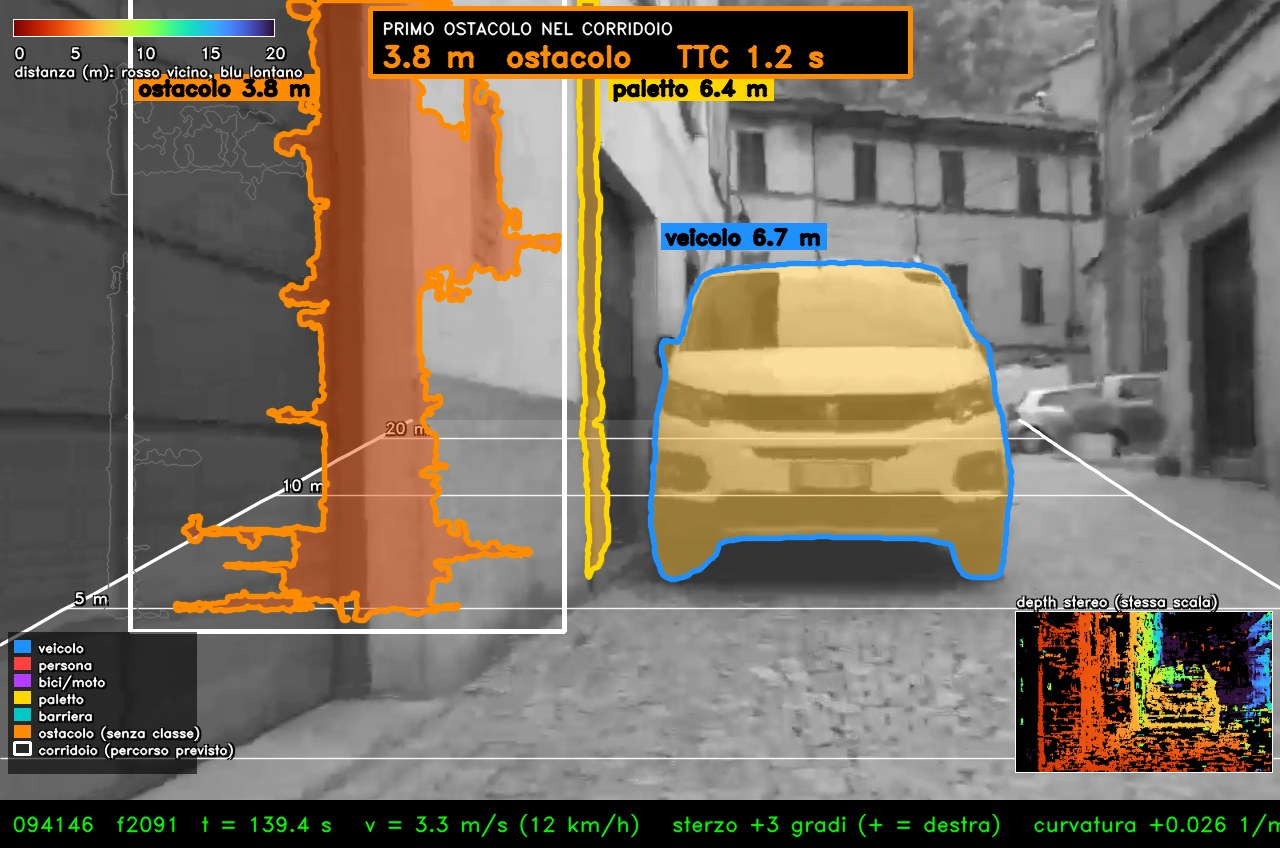
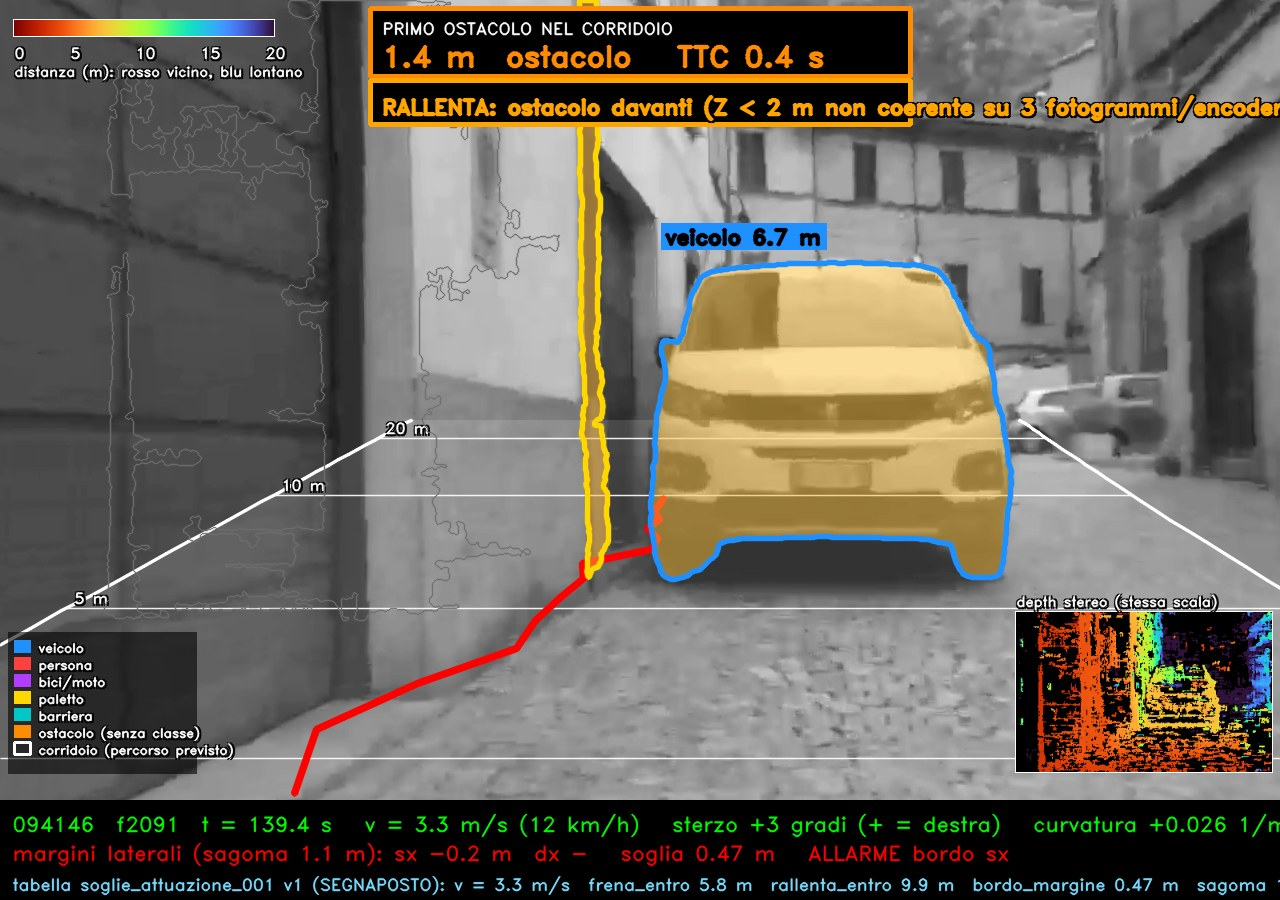
depth video #001 giro 11: muri laterali declassati a bordo (componente muro + impronta), STERZA con base misurata, gate FRENA/RALLENTA su sagoma, coerenza Z sotto 2 m, falsi campione 18->6, persi 7->47 (dichiarato)

diff --git a/projects/asmile/training/depth/video_fluido_001.py b/projects/asmile/training/depth/video_fluido_001.py
@@ -14,15 +14,16 @@ import bordi_001 as BD
 from ego_001 import Ego, x_path, path_xz, x_arc
 
 W, H, BAR = 1280, 800, 100
-MODE = os.environ.get("VFMODE", "v10")          # "v6"/"v7" = regole dei giri 6/7 (per il prima/dopo), "v8" = v7 + correzioni bug del giro 8
-V7 = MODE in ("v7", "v8", "v9", "v10")
-V8 = MODE in ("v8", "v9", "v10")
-V10 = MODE == "v10"     # giro 10: H_ALTO 2.0 m (Daniele: da terra a 2 m e' ostacolo anche sospeso) + BORDI (muri/cordoli/marciapiede paralleli: allarme di distanza laterale, non primo ostacolo)
-V9 = MODE in ("v9", "v10")       # giro 9: quota da terra misurata sui pixel bassi/alti della MASCHERA (zmap), non sul box; esclude solo cio' che sta tutto sopra H_ALTO o sotto il piano
+MODE = os.environ.get("VFMODE", "v11")          # "v6"/"v7" = regole dei giri 6/7 (per il prima/dopo), "v8" = v7 + correzioni bug del giro 8
+V7 = MODE in ("v7", "v8", "v9", "v10", "v11")
+V8 = MODE in ("v8", "v9", "v10", "v11")
+V10 = MODE in ("v10", "v11")     # giro 10: H_ALTO 2.0 m (Daniele: da terra a 2 m e' ostacolo anche sospeso) + BORDI (muri/cordoli/marciapiede paralleli: allarme di distanza laterale, non primo ostacolo)
+V9 = MODE in ("v9", "v10", "v11")       # giro 9: quota da terra misurata sui pixel bassi/alti della MASCHERA (zmap), non sul box; esclude solo cio' che sta tutto sopra H_ALTO o sotto il piano
+V11 = MODE == "v11"     # giro 11: blob/altro LATERALI o paralleli declassati a bordo prima del primo ostacolo; STERZA solo con bordo entro margine+rallenta_entro+base misurata; FRENA/RALLENTA solo se tocca terra nel corridoio o la sagoma 0-2 m interseca la bici; FRENA <2 m con Z coerente (encoder) salvo persone
 PURE = os.environ.get("VF_PURE", "1") == "1"      # v7: terza ipotesi = arco a curvatura costante (il percorso reale in curva stretta si avvolge piu' del previsto)
 EXTRA = float(os.environ.get("VF_EXTRA", "0.1"))   # allargamento aggiuntivo del corridoio per m di distanza (m/m), 0 = nessuno
 OUT_A = os.environ.get("VF_OUT_A", os.path.join(D.HERE, "out_20261112_v6"))  # stadio A (misure per fotogramma) INVARIATO: riletto da v6
-OUT = os.environ.get("VF_OUT", os.path.join(D.HERE, "out_20261112_v10" if V10 else "out_20261112_v9"))
+OUT = os.environ.get("VF_OUT", os.path.join(D.HERE, "out_20261112_v11" if V11 else ("out_20261112_v10" if V10 else "out_20261112_v9")))
 os.makedirs(OUT, exist_ok=True)
 Z_RAW_GAP, Z_RAW_MAXZ = 0.7, 8.0   # v7 punto 3: se Z_filtrata - Z_grezza > 0.7 m sotto 8 m si usa la grezza (vince la piu' vicina)
 HITS_BLOB_NEAR, ZNEAR_BLOB = 3, 5.0  # v7 punto 1: sotto 5 m un blob senza classe conferma a 3 fotogrammi come gli altri
@@ -135,7 +136,7 @@ class Track:
         sa = 0.3 if s.stat else 1.0
         s.sa = sa; s.x = np.array([Z, 0.0]); sg = s.sig(Z); s.P = np.diag([sg ** 2, (0.3 if s.stat else 1.0) ** 2])
         s.out = 0; s.tan = o["X"] / max(o["Z_picco"], 0.1); s.decl = [bool(o["declassato"])]; s.sosp = [bool(o["sospetto"])]
-        s.in_arc = False; s.in_str = False; s.lastfirst = False; s.lab_xy = None; s.o = o; s.Zraw = [o["Z_picco"]]; s.t_obs = [t]; s.Zf = [Z]; s.s_obs = []; s.hb = []; s.ht = []; s.bd = []
+        s.in_arc = False; s.in_str = False; s.lastfirst = False; s.lab_xy = None; s.o = o; s.Zraw = [o["Z_picco"]]; s.t_obs = [t]; s.Zf = [Z]; s.s_obs = []; s.hb = []; s.ht = []; s.bd = []; s.fp = []; s.bpar = []
 
     @staticmethod
     def sig(Z): return float(np.hypot(0.03 * Z, Z * Z * 0.4 / (F_PX * B_M)))
@@ -222,6 +223,31 @@ def run_tracking(frames, ego, famv2):
     return per
 
 
+Z_COERENZA = 2.0     # v11: sotto 2 m FRENA richiede Z coerente (salvo persone)
+
+
+def z_coerente(tr, tol=0.35):
+    """v11: gli ultimi 3 fotogrammi MISURATI (non predetti) dell'oggetto, riportati a oggi con lo spostamento encoder (Zraw_i - (s_ora - s_i)), devono stare entro 0.35 m (errore stereo a 1-2 m ~ 0.05 m + encoder):
+    un oggetto fermo che si avvicina con la velocita' della bici e' coerente; un salto di Z (facciata lontana con profondita' sbagliata) no. Meno di 3 misure = non coerente."""
+    n = min(len(tr.Zraw), len(tr.s_obs))
+    if n < 3: return False
+    Z3 = tr.Zraw[-3:]; s3 = tr.s_obs[-3:]; adj = [z - (s3[-1] - si) for z, si in zip(Z3, s3)]
+    return bool(max(adj) - min(adj) <= tol)
+
+
+def lat_gaps(r, pz, px, use_fp=True):
+    """v11: spazio libero laterale (m, <0 = interseca) fra l'oggetto e la sagoma della bici, per l'arco e per il percorso dritto. Impronta dei punti se c'e', altrimenti estremi laterali di maschera/box alla Z misurata."""
+    fp = None
+    tr = r.get("track")
+    if tr is not None and use_fp and not r.get("coast"): fp = next((x for x in reversed(tr.fp[-3:]) if x is not None), None)
+    if fp is not None: return fp["gap"], fp["gap_s"]
+    if r.get("poly") is not None and len(r["poly"]) >= 3: xs = np.asarray(r["poly"], np.float32)[:, 0]; x0, x1 = float(xs.min()), float(xs.max())
+    else: x0, x1 = float(r["box"][0]), float(r["box"][2])
+    x0, x1 = max(x0, 0.0), min(x1, float(W)); Z = r["Z"]
+    Xl, Xr = (x0 - BD.CX) * Z / F_PX, (x1 - BD.CX) * Z / F_PX; xa = float(np.interp(Z, pz, px))
+    return max(Xl - xa - BD.HW, xa - Xr - BD.HW), max(Xl - BD.HW, -BD.HW - Xr)
+
+
 def corridor_logic(per, frames, ego, zm=None, stuff=None):
     """per ogni fotogramma: arco (k), appartenenza arco/dritta con isteresi, primo ostacolo (isteresi 0.5 m)"""
     res = []; prev_first = {"arc": None, "str": None}; bhist = {"L": [], "R": []}; bclr = {"L": [], "R": []}
@@ -229,6 +255,10 @@ def corridor_logic(per, frames, ego, zm=None, stuff=None):
     for fi, (fr, rows) in enumerate(zip(frames, per)):
         k = float(ego.at(fr["t_ms"], "k")); pz, px = path_xz(k); gpf = smooth_gp(frames, fi) if V8 else None
         zf_ = zm[f"f{fr['frame']}"] if (zm is not None and f"f{fr['frame']}" in zm.files) else None
+        wcl, wpar = None, {}
+        if V11 and skeys is not None and zf_ is not None and gpf is not None:      # v11: componenti muro (stuff) con PCA, per i blob-fette di muro
+            nk0 = int(skeys[np.argmin(np.abs(skeys - fr["frame"]))])
+            if abs(nk0 - fr["frame"]) <= 2: wcl, wpar = BD.wall_components(zf_, gpf, stuff[f"f{nk0}"], [q["poly"] for q in rows if q["src"] != "blob" and not q["coast"]], k, HP)
         for r in rows:
             Z = r["Z"]; X = r["tan"] * Z; r["X"] = X
             dx_arc = X - float(np.interp(Z, pz, px)); tr = r["track"]
@@ -259,7 +289,25 @@ def corridor_logic(per, frames, ego, zm=None, stuff=None):
                 r["h_base"] = hb; r["senza_base"] = bool(hb is not None and hb >= H_BASE_MIN)
             if V10:
                 tr = r["track"]; r["bordo"] = False
-                if r["src"] == "blob":
+                if V11 and r["src"] == "blob":
+                    # v11: il blob (o 'altro') e' un BORDO se parallelo al percorso (PCA come i bordi) OPPURE interamente laterale (fuori sagoma + margine: non puo' urtare; se la sua impronta torna a intersecare la sagoma ridiventa ostacolo): voto 3 su 5
+                    if not r["coast"]:
+                        fp = BD.blob_footprint(r["poly"], zf_, gpf, HP, k); r["fp"] = fp
+                        if fp is None: tr.bd.append(None)
+                        else:
+                            par = fp["ext"] >= BD.EXT_MIN and fp["el"] >= BD.ELONG_MIN and fp["ang"] <= BD.ANG_MAX
+                            lat = min(fp["gap"], fp["gap_s"]) >= BD.margin(max(0.0, float(ego.at(fr["t_ms"], "v_s"))))
+                            wp = False
+                            if wcl is not None:   # blob-fetta di muro: >= 50% dei suoi pixel (con Z valida) cadono in componenti muro PARALLELE al percorso
+                                mm = BD._fill([r["poly"]]) & (zf_ != 255) & (zf_ < 250) & (zf_ >= 3); ids = wcl[mm]
+                                if len(ids) >= 12: wp = bool(np.mean([wpar.get(int(i), {}).get("par", False) for i in ids]) >= 0.5)
+                            r["wpar"] = wp; par = par or wp
+                            tr.bd.append(bool(par or lat)); tr.bpar.append(bool(par)); r["bgeo"] = [bool(par), bool(lat)] + [round(float(fp[x]), 2) for x in ("gap", "zspan", "ext", "el", "ang")]
+                        tr.fp.append(fp)
+                    hist = [x for x in tr.bd[-5:] if x is not None]; lastfp = next((x for x in reversed(tr.fp) if x is not None), None)
+                    if r["coast"] and lastfp is not None: gA_, gS_ = lat_gaps(r, pz, px, use_fp=False); lastfp = dict(gap=gA_, gap_s=gS_)      # traccia non vista: la posizione ATTUALE (box predetto, Z predetta), non l'impronta vecchia   # v11: bordo se >= 2 voti su 5 (1 solo se e' l'unico campione) E l'ultima impronta non interseca la sagoma (gap >= 0 sia sull'arco sia sul dritto; PROVATA l'esenzione per i muri paralleli che intersecano: perdeva pilastri a 0.4 m dalla traiettoria senza allarme, RIFIUTATA: sicurezza prima): il flicker dell'allungamento non riporta un muro a ostacolo
+                    r["bordo"] = bool(hist and (sum(hist) >= (2 if len(hist) >= 2 else 1)) and (lastfp is None or max(lastfp["gap"], lastfp["gap_s"]) >= 0.0))
+                elif r["src"] == "blob" and not V11:
                     if not r["coast"]:
                         g = BD.blob_geometry(r["poly"], zf_, gpf, HP, k); tr.bd.append(None if g is None else bool(g[0])); r["bgeo"] = None if g is None else [bool(g[0])] + [round(float(x), 2) for x in g[1:]]
                     hist = [x for x in tr.bd[-5:] if x is not None]; r["bordo"] = bool(hist and np.mean(hist) > 0.5)
@@ -274,7 +322,11 @@ def corridor_logic(per, frames, ego, zm=None, stuff=None):
             bsum = dict(bf=bf, alarm=None, lab=lab is not None)
             for si, side in enumerate(("L", "R")):
                 vi = None if bf is None else bf[side]["viol"]; bhist[side].append(bool(vi is not None and v_ >= BD.V_MIN_ALLARME)); bclr[side].append(None if bf is None else bf[side]["clear"])
-                if len(bhist[side]) >= 3 and all(bhist[side][-3:]):
+                cl_ok = [x for x in bclr[side][-5:] if x is not None]
+                # v11 punto 4 (2973): provata la mediana degli ultimi 5 fotogrammi (BD_MED=1): allarmi 69->122 fotogrammi, molti episodi da 1 fotogramma = piu' falsi; RIFIUTATA, resta 3 consecutivi (causa: la misura laterale salta fra fotogrammi, vedi rapporto)
+                if os.environ.get('BD_MED') == '1' and V11: trig = bool(bhist[side][-1] and len(cl_ok) >= 3 and float(np.median(cl_ok)) < bf['margin'])
+                else: trig = len(bhist[side]) >= 3 and all(bhist[side][-3:])
+                if trig:
                     Zv, cv_, kd = vi; nm = "sx" if side == "L" else "dx"
                     rows.append(dict(inside=1.0, id=-1 - si, fam="bordo", src="bordo", classe=kd, Z=Zv, Zf=Zv, rawfix=False, w=0.0, Zraw=Zv, tan=0.0, box=[0, 0, 0, 0], poly=None, decl=False, sosp=False, ext=False, hits=99, coast=False, track=None,
                                      X=0.0, in_arc=True, in_str=True, in_arc_pure=True, cand=True, fuori_img=False, h_base=0.0, h_top=0.0, escl="", senza_base=False, bordo=False, side=nm, clear=float(cv_), kind=kd))
@@ -297,9 +349,21 @@ def corridor_logic(per, frames, ego, zm=None, stuff=None):
                 if f_["fam"] == "bordo" and f_["kind"] == "bordo":
                     oth = None if bsum["bf"] is None else bsum["bf"]["R" if f_["side"] == "sx" else "L"]["clear"]
                     libero = oth is None or oth >= sg["bordo_margine_m"]
-                    if (f_["clear"] < 0 or not libero) and Zf_ <= sg["frena_entro_m"]: act = ("FRENA", f"bordo {f_['side']}, " + ("nel percorso" if f_["clear"] < 0 else "nessuno spazio dall'altro lato"))
+                    if V11 and Zf_ > sg["rallenta_entro_m"]: act = None      # v11: nessuna azione se il bordo e' oltre rallenta_entro lungo il percorso
+                    elif (f_["clear"] < 0 or not libero) and Zf_ <= sg["frena_entro_m"]: act = ("FRENA", f"bordo {f_['side']}, " + ("nel percorso" if f_["clear"] < 0 else "nessuno spazio dall'altro lato"))
                     elif libero: act = ("STERZA", f"via dal bordo {f_['side']} {max(0, f_['clear']):.1f} m")
                     else: act = ("RALLENTA", f"bordo {f_['side']}, nessuno spazio dall'altro lato")
+                elif V11:
+                    gA, gS = lat_gaps(f_, pz, px)
+                    ground = f_["fam"] in BASE_EXEMPT or (f_["h_base"] is not None and f_["h_base"] <= H_BASE_MIN)
+                    sagoma_int = min(gA, gS) <= BD.LAT_GAP_TOL                      # la sagoma 0-2 m dell'oggetto interseca la sagoma della bici (arco O dritto)
+                    corr_ground = ground and min(gA, gS) <= sg["bordo_margine_m"]      # tocca terra dentro il corridoio (sagoma + margine)
+                    f_["gap"] = (round(gA, 2), round(gS, 2), bool(ground))
+                    if not (sagoma_int or corr_ground): act = None
+                    elif Zf_ <= sg["frena_entro_m"]:
+                        if Zf_ < Z_COERENZA and f_["fam"] != "persona" and not z_coerente(f_["track"]): act = ("RALLENTA", "ostacolo davanti (Z < 2 m non coerente su 3 fotogrammi/encoder: no FRENA)")
+                        else: act = ("FRENA", "ostacolo davanti")
+                    elif Zf_ <= sg["rallenta_entro_m"]: act = ("RALLENTA", "ostacolo davanti")
                 elif abs(f_["X"] - float(np.interp(Zf_, pz, px))) > BD.HW + sg["bordo_margine_m"]: act = None    # fuori dalla sagoma + margine: non e' sul percorso (corridoio largo del tracking), nessuna azione
                 elif Zf_ <= sg["frena_entro_m"]: act = ("FRENA", "ostacolo davanti")
                 elif Zf_ <= sg["rallenta_entro_m"]: act = ("RALLENTA", "ostacolo davanti")
@@ -357,7 +421,7 @@ def draw(img, fr, rows, cs, gp, zthumb, ego, sess, t0, i):
         ga, gvh, gb = gp; mg = bf["margin"]
         for side in ("L", "R"):
             byz = {}
-            for z, xb, c, par, _h in bf[side]["bins"]:
+            for z, xb, c, par, _h, *_r in bf[side]["bins"]:
                 if par and (z not in byz or c < byz[z][1]): byz[z] = (xb, c)
             pts = []
             for z in sorted(byz):

diff --git a/projects/asmile/training/depth/bordi_001.py b/projects/asmile/training/depth/bordi_001.py
@@ -32,7 +32,7 @@ def _fill(polys, shape=(200, 320)):
     return m > 0
 
 
-def pca_dir(P, k, pz=None, px=None):
+def pca_dir(P, k, pz=None, px=None, either=False):
     """P (n,2) = (Z,X). ritorna (ext, elong, ang, parallela)"""
     if len(P) < N_MIN: return 0.0, 0.0, 90.0, False
     c = P.mean(0); C = np.cov((P - c).T); w, V = np.linalg.eigh(C); v1 = V[:, 1]; l1, l2 = max(w[1], 1e-9), max(w[0], 1e-9)
@@ -40,6 +40,7 @@ def pca_dir(P, k, pz=None, px=None):
     if pz is None: pz, px = path_xz(k)
     sp = float(np.interp(c[0], pz[:-1], np.diff(px) / np.maximum(np.diff(pz), 1e-6))); dr = np.array([1.0, sp]); dr /= np.linalg.norm(dr)
     ang = float(np.degrees(np.arccos(min(1.0, abs(float(v1 @ dr))))))
+    if either: ang = min(ang, float(np.degrees(np.arccos(min(1.0, abs(float(v1[0])))))))      # v11: parallelo se lo e' all'arco O al percorso dritto (le due ipotesi del corridoio)
     return ext, el, ang, bool(ext >= EXT_MIN and el >= ELONG_MIN and ang <= ANG_MAX)
 
 
@@ -68,6 +69,7 @@ def consistent(zf, tol=0.12, nmin=8):
     return ok & (cnt >= nmin)
 
 
+BASE_MAX_M = 0.5      # v11: base a terra misurata = punti della fascia a quota <= 0.5 m dal piano strada (errore piano 0.1-0.2 m): dichiarato, non tarato sui fotogrammi
 H_MURO = 1.0          # un muro e' ALTO: la mediana del 90 percentile di quota delle fasce della catena >= 1.0 m (toglie linee a terra mal etichettate)
 CH_DZ, CH_DX, CH_LEN = 0.8, 0.35, 2.0      # catena di fasce Z: passo <= 0.8 m, salto laterale <= 0.35 m per fascia, lunghezza >= 2.0 m (un bordo vero e' una LINEA lungo il percorso)
 
@@ -110,7 +112,8 @@ def border_frame(zf, gp, k, v, lab, cls_polys, bord_polys, hp):
     mo = ((wall & ~clsm) | bm) & valid & (h >= 0.2) & (h <= 2.0)
     Zl = np.where(valid & (np.abs(Z - Zg) < 0.3 * Zg), Z, Zg); Xl = (uu - CX) * Zl / F_PX
     ml = lowe & np.isfinite(Zl) & ~clsm & LOW_ON
-    pz, px = path_xz(k); out = dict(L=dict(bins=[], clear=None, viol=None), R=dict(bins=[], clear=None, viol=None), zl=zl, margin=mg, ncomp=0, par=0, front=0, npts=int(mo.sum() + ml.sum()))
+    pz, px = path_xz(k); hyps = [(pz, px)] + ([(pz, np.zeros_like(px))] if os.environ.get('BD_HYP2') == '1' else [])      # v11: PROVATE le due ipotesi (arco e dritto) per l'allarme (BD_HYP2=1): allarmi 69->94 fotogrammi e nuovi FRENA in curva (2751-2758) = piu' falsi; RIFIUTATO: l'allarme resta sull'arco come v10 (le due ipotesi servono solo per dire che un muro e' parallelo)
+    out = dict(L=dict(bins=[], bh=[[], []], clear=None, viol=None), R=dict(bins=[], bh=[[], []], clear=None, viol=None), zl=zl, margin=mg, ncomp=0, par=0, front=0, npts=int(mo.sum() + ml.sum()))
     for kind, mk, XX, ZZ, HH in (("obj", mo, X, Z, h), ("low", ml, Xl, Zl, np.zeros_like(h))):
         Xp = XX[mk].astype(np.float64); Zp = ZZ[mk].astype(np.float64); Hp = HH[mk].astype(np.float64); s = (Zp >= ZMIN_B) & (Zp <= Zc) & (np.abs(Xp) < 8)
         Xp, Zp, Hp = Xp[s], Zp[s], Hp[s]
@@ -123,26 +126,68 @@ def border_frame(zf, gp, k, v, lab, cls_polys, bord_polys, hp):
         czz = bx(g * zc_ ** 2) / np.maximum(S, 1) - mz ** 2; cxx = bx(g * xc_ ** 2) / np.maximum(S, 1) - mx ** 2; czx = bx(g * zc_ * xc_) / np.maximum(S, 1) - mz * mx
         tr_ = czz + cxx; det_ = np.sqrt(np.maximum(((czz - cxx) / 2) ** 2 + czx ** 2, 0)); l1 = tr_ / 2 + det_; l2 = np.maximum(tr_ / 2 - det_, 1e-6)
         th = 0.5 * np.arctan2(2 * czx, czz - cxx)            # angolo dell'asse maggiore rispetto a Z (in (Z,X))
-        slope = np.interp(zc_, pz[:-1], np.diff(px) / np.maximum(np.diff(pz), 1e-6)); pa = np.arctan(slope)
-        da = np.degrees(np.abs(((th - pa + np.pi / 2) % np.pi) - np.pi / 2))
-        el = np.sqrt(l1 / l2); cellpar = (S >= 12) & (el >= ELONG_MIN) & (da <= ANG_MAX) & (np.sqrt(l1) * 3.5 >= EXT_MIN / 2)
-        cellfr = (S >= 12) & ~cellpar
-        ppar = cellpar[iz, ix]; pfr = cellfr[iz, ix]; out["par"] += int(ppar.sum()); out["front"] += int(pfr.sum()); out["ncomp"] += 1
-        for isp, sel in ((True, ppar), (False, pfr)):
-            if not isp: continue      # i muri FRONTALI restano ostacoli normali del tracking/blob (Daniele: opzione A): qui solo i bordi paralleli (il frontale da stereo grezza dava falsi dal rumore in alto/centro)
-            q = sel & (Zp <= zl)
-            if q.sum() < 5: continue
-            P = np.stack([Zp[q], Xp[q]], 1); Hq = Hp[q]; rel = P[:, 1] - np.interp(P[:, 0], pz, px); bz = (P[:, 0] / 0.5).astype(int)
-            for side, sm in (("L", rel < 0), ("R", rel >= 0)):
-                for b_ in np.unique(bz[sm]):
-                    mb = sm & (bz == b_)
-                    if mb.sum() < 5: continue
-                    sep = float(np.percentile(np.abs(rel[mb]), 10)); xb = float(np.interp((b_ + .5) * .5, pz, px) + (-sep if side == "L" else sep))
-                    out[side]["bins"].append(((b_ + 0.5) * 0.5, xb, sep - HW, isp, float(np.percentile(Hq[mb], 90))))
+        for hyp, (pzh, pxh) in enumerate(hyps):
+            slope = np.interp(zc_, pzh[:-1], np.diff(pxh) / np.maximum(np.diff(pzh), 1e-6)); pa = np.arctan(slope)
+            da = np.degrees(np.abs(((th - pa + np.pi / 2) % np.pi) - np.pi / 2))
+            el = np.sqrt(l1 / l2); cellpar = (S >= 12) & (el >= ELONG_MIN) & (da <= ANG_MAX) & (np.sqrt(l1) * 3.5 >= EXT_MIN / 2)
+            cellfr = (S >= 12) & ~cellpar
+            ppar = cellpar[iz, ix]; pfr = cellfr[iz, ix]; out["par"] += int(ppar.sum()); out["front"] += int(pfr.sum()); out["ncomp"] += 1
+            for isp, sel in ((True, ppar), (False, pfr)):
+                if not isp: continue      # i muri FRONTALI restano ostacoli normali del tracking/blob (Daniele: opzione A): qui solo i bordi paralleli (il frontale da stereo grezza dava falsi dal rumore in alto/centro)
+                q = sel & (Zp <= zl)
+                if q.sum() < 5: continue
+                P = np.stack([Zp[q], Xp[q]], 1); Hq = Hp[q]; rel = P[:, 1] - np.interp(P[:, 0], pzh, pxh); bz = (P[:, 0] / 0.5).astype(int)
+                for side, sm in (("L", rel < 0), ("R", rel >= 0)):
+                    for b_ in np.unique(bz[sm]):
+                        mb = sm & (bz == b_)
+                        if mb.sum() < 5: continue
+                        sep = float(np.percentile(np.abs(rel[mb]), 10)); xb = float(np.interp((b_ + .5) * .5, pzh, pxh) + (-sep if side == "L" else sep))
+                        out[side]["bh"][hyp].append(((b_ + 0.5) * 0.5, xb, sep - HW, isp, float(np.percentile(Hq[mb], 90)), float(np.percentile(Hq[mb], 5))))
     for side in ("L", "R"):
-        out[side]["bins"] = chain_filter(out[side]["bins"])
+        out[side]["bins"] = sum((chain_filter(b) for b in out[side]["bh"][:len(hyps)]), [])
         bs = out[side]["bins"]; pb = [b for b in bs if b[3]]
         if pb: out[side]["clear"] = min(b[2] for b in pb)
-        vi = [b for b in bs if (b[2] < mg if b[3] else b[2] < 0.0)]      # frontale: ostacolo se entra nella sagoma
+        vi = [b for b in bs if (b[2] < mg if b[3] else b[2] < 0.0) and b[0] <= SOG.a(v)["rallenta_entro_m"] and b[5] <= BASE_MAX_M]      # v11: allarme solo entro rallenta_entro lungo il percorso E con base a terra MISURATA (quota del 5 percentile della fascia <= 0.5 m: un muro tocca terra; striscia piatta/muro senza punti bassi no)
         if vi: bz_ = min(vi, key=lambda b: b[0]); out[side]["viol"] = (bz_[0], bz_[2], "bordo" if bz_[3] else "muro davanti")
     return out
+
+
+LAT_GAP_TOL = 0.10     # v11: tolleranza (errore laterale stereo a 2-4 m ~0.1 m) per dire che un oggetto interseca la sagoma
+
+
+def blob_footprint(poly, zf, gp, hp, k):
+    """v11: impronta dei punti di una maschera sul percorso (Z,X, quota da piano strada, 0.15<=h<=2.0): ext/elong/angolo (PCA, come i bordi), estensione lungo Z (5-95 percentile),
+    intervallo laterale (5-95 percentile) rispetto al centro del percorso e spazio libero dalla sagoma gap = max(lo - HW, -HW - hi) (<0 = interseca), quota minima (5 percentile).
+    None se meno di 12 punti validi."""
+    if zf is None or gp is None or poly is None or len(poly) < 3: return None
+    ga, gvh, gb = gp; m = _fill([poly]); vs, us = np.nonzero(m & (zf != 255) & (zf < 250) & (zf >= 3))
+    if len(vs) < 12: return None
+    Z = zf[vs, us].astype(np.float32) / 10.0; X = ((us * 4 + 2.0) - CX) * Z / F_PX
+    d = F_PX * B_M / Z; h = hp * (1 - ga * ((vs * 4 + 2.0) - gvh) / d); s = (h >= 0.15) & (h <= 2.0)
+    if s.sum() < 12: return None
+    Z, X, h = Z[s].astype(np.float64), X[s].astype(np.float64), h[s]
+    lo, hi = np.percentile(Z, (10, 90)); q = (Z >= lo) & (Z <= hi)
+    ext, el, ang, _ = pca_dir(np.stack([Z[q], X[q]], 1), k, either=True) if q.sum() >= N_MIN else (0.0, 0.0, 90.0, False)
+    pz, px = path_xz(k); rel = X - np.interp(Z, pz, px); rlo, rhi = np.percentile(rel, (5, 95))
+    return dict(n=int(s.sum()), ext=float(ext), el=float(el), ang=float(ang), zspan=float(np.percentile(Z, 95) - np.percentile(Z, 5)), rlo=float(rlo), rhi=float(rhi),
+                gap=float(max(rlo - HW, -HW - rhi)), gap_s=float(max(np.percentile(X, 5) - HW, -HW - np.percentile(X, 95))), h5=float(np.percentile(h, 5)), zmed=float(np.median(Z)))
+
+
+def wall_components(zf, gp, lab, cls_polys, k, hp):
+    """v11: un blob e' una FETTA a profondita' costante di un muro (la sua impronta non e' allungata): per sapere se e' un muro parallelo si guarda l'INTERA componente connessa di pixel
+    'edificio/muro' (stuff Mapillary) con Z valida e quota 0.2-2.0 m, esclusi persone/veicoli/paletti. PCA della componente (Z,X) con lo stesso criterio dei bordi (estensione >= 1.5 m,
+    allungamento >= 2, angolo col percorso <= 35 gradi). Ritorna (mappa componenti 200x320 int32, {id: dict(par, ext, el, ang, n)}) oppure (None, {})."""
+    if zf is None or gp is None or lab is None: return None, {}
+    ga, gvh, gb = gp; valid = consistent(zf); Z = zf.astype(np.float32) / 10.0
+    uu = (np.arange(320) * 4 + 2.0)[None, :]; vv = (np.arange(200) * 4 + 2.0)[:, None]
+    with np.errstate(all="ignore"):
+        d = F_PX * B_M / np.where(valid, Z, 1.0); h = hp * (1 - ga * (vv - gvh) / d)
+    wall = np.isin(lab, CL_WALL) & ~_fill(cls_polys)
+    cn, cl = cv2.connectedComponents(wall.astype(np.uint8), connectivity=8)
+    X = (uu - CX) * Z / F_PX; out = {}
+    for i in range(1, cn):
+        m = (cl == i) & valid & (h >= 0.2) & (h <= 2.0) & (Z >= ZMIN_B) & (Z <= 15.0)
+        if m.sum() < 60: continue
+        P = np.stack([Z[m], X[m]], 1).astype(np.float64); lo, hi = np.percentile(P[:, 0], (5, 95)); P = P[(P[:, 0] >= lo) & (P[:, 0] <= hi)]
+        ext, el, ang, par = pca_dir(P, k, either=True); out[i] = dict(par=bool(par), ext=float(ext), el=float(el), ang=float(ang), n=int(m.sum()))
+    return cl, out

diff --git a/projects/asmile/training/depth/regress_v11_casi.py b/projects/asmile/training/depth/regress_v11_casi.py
@@ -1,0 +1,35 @@
+#!/usr/bin/env python3
+"""regress_v11_casi.py — regressione (sola lettura) sui casi fissi del critico: v7/v8/v9/v10/v11. 'bordo' = primo ostacolo sintetico dell'allarme bordo (id<0), contato a parte.
+Uso: regress_v10_casi.py CASI_V7.json CASI_V8.json DIR_V7 DIR_V8 DIR_V9 DIR_V10 DIR_V11"""
+import sys, json, pickle, os
+c7 = json.load(open(sys.argv[1]))["casi"]; c8 = json.load(open(sys.argv[2]))["casi"]
+T = {nm: pickle.load(open(os.path.join(d, "tracks_20261109_094146.pkl"), "rb")) for nm, d in (("v7", sys.argv[3]), ("v8", sys.argv[4]), ("v9", sys.argv[5]), ("v10", sys.argv[6]), ("v11", sys.argv[7]))}
+def first(t, f):
+    i = t["frames"].index(f); fid = t["cs"][i]["first"]["arc"]
+    return None if fid is None else next(q for q in t["per"][i] if q["id"] == fid)
+def brief(r): return None if r is None else (r["fam"], round(float(r["Z"]), 2), r["coast"], round(r["inside"], 2))
+falsi = [c["frame"] for c in c7 if "vero" not in (c.get("atteso") or "") and isinstance(c["frame"], int) and c["frame"] in T["v11"]["frames"]]
+veri = [c["frame"] for c in c7 if "vero" in (c.get("atteso") or "") and isinstance(c["frame"], int)]
+print("campione v7 critico: falsi", len(falsi), "veri", len(veri)); out = {}
+for nm, t in T.items():
+    ff5 = [f for f in falsi if (first(t, f) is not None and first(t, f)["Z"] < 5 and first(t, f)["fam"] != "bordo")]
+    fb = [f for f in falsi if (first(t, f) is not None and first(t, f)["fam"] == "bordo")]
+    vv = [f for f in veri if first(t, f) is not None]
+    print(nm, "falsi con primo ostacolo <5 m (esclusi bordo):", len(ff5), ff5, "| falsi col primo = ALLARME BORDO:", len(fb), fb, "| veri con primo", len(vv), "/", len(veri))
+    out[nm] = dict(falsi_sotto5=len(ff5), lista=ff5, falsi_bordo=len(fb), lista_bordo=fb, veri=len(vv), veri_tot=len(veri))
+print("--- casi v8 critico")
+def rng(f): return range(f[0], f[1] + 1) if isinstance(f, list) and len(f) == 2 and 1 < f[1] - f[0] < 40 else (f if isinstance(f, list) else [f])
+for c in c8:
+    if "frame" not in c: continue
+    fs = [x for x in rng(c["frame"]) if x in T["v11"]["frames"]]; print(c["frame"], "|", (c.get("atteso") or "")[:70])
+    for nm in ("v10", "v11"): print("   ", nm, [(f, brief(first(T[nm], f))) for f in fs][:14])
+for nm in ("v10", "v11"):
+    n = 0
+    for i, c in enumerate(T[nm]["cs"]):
+        fid = c["first"]["arc"]
+        if fid is not None and next(q for q in T[nm]["per"][i] if q["id"] == fid)["inside"] < 0.5: n += 1
+    print(nm, "primo ostacolo con box <50% dentro:", n)
+for tid in (854, 1384, 1427):
+    rows = [(i, r) for i, rr in enumerate(T["v11"]["per"]) for r in rr if r["id"] == tid]
+    print("paletto", tid, "righe", len(rows), "escl", sum(1 for _, r in rows if r.get("escl")), "bordo", sum(1 for _, r in rows if r.get("bordo")), "cand", sum(1 for _, r in rows if r["cand"]), "primo", sum(1 for i, r in rows if T["v11"]["cs"][i]["first"]["arc"] == tid))
+json.dump(out, open(os.path.join(sys.argv[7], "regress_v11.json"), "w"), indent=1)

diff --git a/projects/asmile/agents/rapporti/depth_video_001_20261112_v11.md b/projects/asmile/agents/rapporti/depth_video_001_20261112_v11.md
@@ -1,0 +1,52 @@
+# Depth video #001, giro 11: muri laterali, STERZA, gate FRENA/RALLENTA (12/11/2026)
+
+Verticale percezione, `asmile-depth`, gate `L1.depth_video`, solo #001 (calib provvisoria B30). Partenza v10 (ce92cb53), PASSA parziale di asmile-occhio. Codice: `training/depth/video_fluido_001.py` (default `VFMODE=v11`), `bordi_001.py` (`blob_footprint`, `wall_components`, `LAT_GAP_TOL`, `BASE_MAX_M`), `regress_v11_casi.py`, `test_sintetico_v11.sh`. Soglie sempre e solo da `config/soglie_attuazione_001.json` (PROPOSTA v1) via `pi/autonomous/soglie.py`.
+Video (locali, mai su git): `training/depth/out_20261112_v11/video_fluido_094146_125-215.mp4` (90 s), `video_fluido_093909.mp4` (27 s). Fotogrammi in `agents/rapporti/img/video_fluido_094146_f{1929,2091,2187,2748,2760,2778,2783,2973,3021,2094,2175,2258,3158,2460}.jpg`.
+
+## 1. Muri laterali scritti "primo ostacolo"
+Causa trovata: i blob sono FETTE a Z quasi costante di un muro, quindi la PCA del singolo blob dava estensione 0.4 m e angolo casuale (f2187: ext 0.45, angolo 62 gradi). Regola fisica adottata, fissata prima (solo blob senza classe):
+- parallelo se l'INTERA componente connessa "edificio/muro" (stuff Mapillary, maestro gia' in cache) a cui appartiene >= 50% dei pixel del blob ha estensione >= 1.5 m, allungamento >= 2 e angolo <= 35 gradi rispetto all'arco O al percorso dritto (le due ipotesi del corridoio: in curva l'arco gira dentro il muro, f2187 e' a 33 gradi dal dritto e 59 dall'arco);
+- oppure laterale: impronta dei punti (5-95 percentile) fuori sagoma + `bordo_margine` sia sull'arco sia sul dritto (non puo' urtare);
+- voto >= 2 su 5 fotogrammi, e solo se l'ultima impronta NON interseca la sagoma (gap >= 0): se la intersecia il blob torna ostacolo. I blob classificati bordo entrano poi nei punti muro di `border_frame` (rimisura).
+Scartato: dichiarare bordo anche gli "altro" SAM (perdeva barile 3174-3178 e bidone 2779-2783, casi fissi v8); esenzione per muri paralleli che intersecano la sagoma (perdeva pilastri a 0.4 m dalla traiettoria senza allarme).
+I 10 fotogrammi: 1929, 1930, 1936, 1937, 1940, 2187, 2748(*), 2779, 2781, 3025 non hanno piu' un muro come primo ostacolo. (*) 2748: ora e' primo un blob 1642 con impronta che interseca la sagoma di 0.18 m (pilastro/vetrina davanti, FRENA a 4.7 m): da guardare, NON so se e' vero (vedi limiti).
+
+## 2. STERZA
+STERZA solo se: bordo entro `bordo_margine`, entro `rallenta_entro` lungo il percorso (prima: `max(rallenta,2.5)` per l'allarme e nessun controllo sull'azione), con base a terra MISURATA (5 percentile della quota dei punti della fascia <= 0.5 m, `BASE_MAX_M`; la catena di fasce richiedeva gia' quota 90 percentile >= 1.0 m, quindi non sono ammesse strisce piatte > 0.10 m). Risultato su 094146: STERZA 14 -> 21 fotogrammi, ma dei 14 di v10 spariscono 2055, 2065, 2535, 2730, 2734, 2735 (muri lontani, i 4 falsi del critico: 2535, 2730, 2734, 2735); restano 2056, 2099, 2105-2110 (vicolo stretto 2056-2110, plausibili) e ne compaiono 2079-2094 (stesso vicolo) e 3021-3022. 3021: muro/edificio a sinistra con l'arco che gira a sinistra (curvatura -0.098), allarme a 5.2 m con margine 0.3: e' uno dei 6 allarmi falsi guardati nel giro 10 (strada aperta), resta falso probabile.
+
+## 3. FRENA/RALLENTA
+Azione solo se (a) l'oggetto tocca terra (h_base <= 0.25 m, persone/veicoli sempre) dentro sagoma + margine (corridoio), OPPURE (b) la sua sagoma 0-2 m interseca la sagoma bici (gap laterale <= 0.10 m = errore laterale stereo, su arco o dritto; impronta dei punti o estremi maschera/box alla Z misurata). Sotto 2 m FRENA richiede Z coerente: ultimi 3 fotogrammi MISURATI riportati a oggi con lo spostamento encoder devono stare entro 0.35 m (salvo persone), altrimenti RALLENTA con motivo scritto nel banner. 2778: il blob 1822 (facciata, 1.19 m) non ha piu' FRENA: la maschera sta fuori sagoma e Z non coerente (3 fotogrammi di vita). Declassi per coerenza: 17 fotogrammi su 094146.
+
+## 4. 2973: margine dx 0.42 < 0.48 senza allarme
+Causa: non e' un errore di soglia, e' la misura. Il lato destro nei fotogrammi 2963-2979 da' 1.06, 1.12, 0.67, 1.05, 0.83, -, 0.46, -, 0.51, 0.80, 0.41, 0.42, -, 1.17 (poi nessun dato in 5 fotogrammi su 12): il muro sta al bordo destro dell'immagine con pochi punti validi, la catena di fasce lo perde e la distanza salta di +-0.3 m fra fotogrammi consecutivi. L'allarme chiede 3 fotogrammi consecutivi sotto margine: qui ce ne sono 2 (2973, 2974). Provato (opzione `BD_MED=1`): mediana degli ultimi 5 fotogrammi con dato -> allarmi 69 -> 122 fotogrammi, 22 episodi molti da 1 fotogramma, 2973 comunque a 0.485 (> 0.48): RIFIUTATO, piu' falsi. Provate anche le due ipotesi di percorso per l'allarme (`BD_HYP2=1`): 69 -> 94 fotogrammi e nuovi FRENA in curva (2751-2758): RIFIUTATO. Il fotogramma (f2973 in `img/`) mostra davvero il muro destro a ~0.4 m dal bordo sagoma: l'allarme manca per persistenza, NON per soglia.
+
+## 5. Test sintetico sbarra sospesa (`test_sintetico_v11.sh`, stadio A reale, fotogrammi 2284-2300, v 3.5 m/s, frena_entro 6.3 m)
+Prima prova: sbarra spessa 0.15 m larga 1.4 m: NON rilevata a nessuna distanza (stadio A scarta blob alti < 0.30 m: `hh < 0.30 f/Z`): limite dello STADIO A, non toccato (cambiarlo e' un'altra campagna). Ripetuta con spessore 0.35 m (minimo rilevabile), X = 0:
+| quota da terra | Z=3.0 | Z=4.0 | Z=4.5 |
+|---|---|---|---|
+| 1.0 m | FRENA al 3o fotogramma (2286, 0.13 s) | FRENA 2286 (0.13 s) | FRENA 2286 (0.13 s) |
+| 1.7 m | FRENA 2286 (0.13 s) | NON RILEVATA: la barra (1.7+0.35 = 2.05 m) a 4 m esce dall'immagine (restano ~0.27 m visibili < 0.30 m) | FRENA 2286 (0.13 s) |
+Distanza minima possibile per 1.7 m con la barra intera: 4.5 m (a 4 m il bordo alto dell'immagine sta a ~1.9 m). Il ritardo e' la conferma a 3 fotogrammi (0.13 s) <= 0.3 s. Limite: Z della toppa costante (non si avvicina), un solo ostacolo, nessuna sbarra reale.
+
+## Misure prima/dopo (094146, 1350 fotogrammi; 093909, 406)
+| | v10 | v11 |
+|---|---|---|
+| falsi primo ostacolo < 5 m, campione v7 (28 falsi) | 18 (+1 bordo) | **6** (+1 bordo, 2091) |
+| di cui oggetti VERI per i casi fissi v8 (bidone 2779-2783, vaso 3163-3172) | - | 4 (2779, 2781, 2783, 3171): falsi effettivi 2 (2748, 2100) + 2091 |
+| allarmi bordo (fotogrammi / episodi) | 69 / 9 | 61 / 7 |
+| FRENA / RALLENTA / STERZA (fotogrammi) | 101 / 44 / 14 | 99 / 140 / 21 |
+| azioni 093909 | nessuna | nessuna |
+| ostacoli veri < 5 m persi (traiettoria reale), corsa max | 7 fotogrammi, 0.27 s | **47 fotogrammi, corsa max 24 fr = 1.6 s** |
+| box fuori immagine come primo ostacolo | 0 | 0 |
+| veicoli vicini alla traiettoria fuori corridoio | 0 | 0 |
+| casi fissi v8: vaso, barile 3174-3178 (1.35->1.26 m), bidone, paletti 854/1384/1427/2679/2692/2449 | ok | ok (barile tenuto grazie a: solo blob declassati, posizione ATTUALE per le tracce non viste) |
+RALLENTA 44 -> 140: non sono nuovi falsi, sono auto/vasi/foglie gia' presenti, prima nascosti dal muro che era "primo ostacolo" (guardati f2175, f2258, f3158, f2460: veicoli, vaso, rami).
+
+## Limiti / NON VERIFICATO
+- Gate "persi = 0" NON rispettato alla lettera: 47 fotogrammi, TUTTI blob declassati a bordo. 43 sono facciate/pilastri a 1.2-1.5 m dalla traiettoria reale (impronta oltre sagoma + margine = 0.55 + 0.48 m; la definizione "vero" di v8 conta fino a 1.5 m): id 4, 396, 420, 437, 386, 415, 1556, 1729, 1798. 4 sono dentro sagoma + margine e restano da guardare: id 213 (f2060, 0.91 m), 1719 (f2760, 2 fotogrammi, 0.74 m), 1739 (f2766, 0.42 m). Nessun ostacolo con classe (persona/veicolo/paletto) perso.
+- 2748: FRENA a 4.7 m su blob 1642 (pilastro + vetrina al centro-destra): non so se e' un ostacolo vero (il critico lo aveva come muro a destra).
+- 3021/3022: STERZA probabile falso (muro a sinistra, arco in curva).
+- Allarme bordo ancora a 3 consecutivi: muri al bordo dell'immagine con misura che salta possono non allarmare (2973).
+- L'allarme e' calcolato solo sull'arco: un muro parallelo al dritto che l'arco attraversa a >35 gradi (f2187) viene declassato e non allarma (provate le due ipotesi, vedi punto 4).
+- Stadio A non rileva oggetti alti < 0.30 m (sbarre sottili, funi): non cambiato.
+- Soglie in stato PROPOSTA/SEGNAPOSTO (larghezza 1.1 m, decel 1.5); Z coerenza 0.35 m, gap 0.10 m, base 0.5 m sono tolleranze di misura dichiarate, non validate col metro. Verita' = traiettoria ricostruita, nessun metro in moto.

diff --git a/projects/asmile/agents/decisioni/asmile-depth.md b/projects/asmile/agents/decisioni/asmile-depth.md
@@ -24,3 +24,6 @@ Scritte con `palla.py decido` mentre lavora. Append-only: una decisione sbagliat
 - 2026-11-12 18:49 **depth video giro 8: bug box fuori immagine + blob senza base** → causa box fuori = box dei fotogrammi 'coast' (oggetto perso fino a 4 fotogrammi): tr.cen e' gia' avanzato di vel+rot a ogni perso e pred_box aggiungeva un secondo passo di vel, senza limite al bordo; 199/199 erano coast. v8: box = posizione corrente del centro (box_now), inside_frac<0.5 => non candidato (e non disegnato); blob/altri (non persona/veicolo) con Z<5 m e base del box a h>=0.25 m sopra il piano strada (h=CAM_H(d-dg)/d, dg dal piano ga/gvh) => non candidato; base non visibile (box al bordo basso) => passa. Corridoio non toccato: limite dichiarato.. Perché: misurato prima: 199/199 coast; soglie 0.5 e 0.25 fissate prima (0.25 = hmin delle versioni 2/3), non tarate sui casi del critico (regressione solo alla fine). Scartato: ritoccare la banda del corridoio guardando f5882-5961/f8785-8815 (ordine: limite dichiarato); filtro muri (aspetta Daniele); tagliare solo il box senza correggere il passo doppio. Evidenza: `agents/rapporti/depth_video_001_20261112_v8.md`.
 - 2026-11-12 19:06 **v9: regola base v8 sostituita da quota da terra misurata su maschera** → esclusione solo se h_basso>1.4 m o h_alto<0.10 m, persona/veicolo/bici/paletto esenti, H_ALTO dichiarata. Perché: la regola base su box scartava barile e vaso veri; h con Z del pixel e' indipendente dalla Z di traccia. Scartato: tenere 0.25 m su blob (scarta sospesi veri); filtro muri (decisione Daniele). Evidenza: `agents/rapporti/depth_video_001_20261112_v9.md`.
 - 2026-11-12 22:07 **v10: soglie di attuazione da tabella unica, bordi paralleli come allarme laterale** → Tutte le soglie (margine bordo, frena/rallenta, h max 2.0 m, sagoma 1.1 m) lette da config/soglie_attuazione_001.json via soglie.py. Bordi = solo muri/edifici (Mapillary) e blob paralleli con catena continua >=2 m e quota >=1 m; cordolo/marciapiede SPENTI di default (BD_LOW=1 li riaccende); muri frontali restano ostacoli normali del blob/tracking. Perché: Con cordolo/marciapiede accesi gli allarmi erano 528/1350 fotogrammi e a occhio quasi tutti falsi (cambi di pavimentazione in vicolo/piazza letti come bordo); il frontale da stereo grezza dava falsi dal rumore in alto/centro. Scartato: PCA per componente (L-shape muro laterale+facciata -> tutto frontale); bordo da sola geometria senza stuff (non distingue pavimentazione).
+- 2026-11-12 22:35 **v11: come riconoscere un blob-fetta di muro** → PCA sull'INTERA componente connessa edificio/muro (stuff Mapillary) e parallelismo all'arco O al percorso dritto; piu' regola laterale (impronta fuori sagoma+margine su entrambe le ipotesi); solo blob senza classe. Perché: i blob sono fette a Z costante: la PCA del singolo blob non vede l'estensione (ext 0.4 m); un muro a 33 gradi dal dritto ma a 59 dall'arco (f2187, curva a destra) era 'non parallelo'. Scartato: dichiarare bordo anche 'altro' SAM: perdeva barile 3174-3178 e bidone 2779-2783 (casi fissi v8); esenzione per muri paralleli che intersecano la sagoma: perdeva pilastri a 0.4 m dalla traiettoria senza allarme. Evidenza: `agents/rapporti/depth_video_001_20261112_v11.md`.
+- 2026-11-12 22:35 **v11: allarme bordo su due ipotesi e mediana a 5 fotogrammi** → provati e RIFIUTATI (restano opzioni BD_HYP2=1 e BD_MED=1): allarme resta sull'arco, 3 fotogrammi consecutivi. Perché: due ipotesi: allarmi 69->94 fotogrammi e nuovi FRENA in curva (2751-2758); mediana: 69->122 con molti episodi da 1 fotogramma. Il caso 2973 (dx 0.42<0.48 senza allarme) e' il flicker della misura laterale (0.4-1.1 m fra fotogrammi consecutivi, bin assenti in 5 fotogrammi su 12). Scartato: tarare la soglia sul fotogramma 2973. Evidenza: `agents/rapporti/depth_video_001_20261112_v11.md`.
+- 2026-11-12 22:35 **v11: gate FRENA/RALLENTA** → azione solo se tocca terra (h_base<=0.25 o persona/veicolo) entro sagoma+margine, OPPURE sagoma 0-2 m interseca la sagoma bici (gap<=0.10 m su arco o dritto); sotto 2 m FRENA richiede Z coerente (3 misure, spostamento encoder, tol 0.35 m) salvo persone, altrimenti RALLENTA; STERZA/allarme solo entro rallenta_entro e con base misurata (quota 5 percentile fascia <=0.5 m). Perché: regole fissate prima dal capo; 0.10 = errore laterale stereo, 0.35 = errore Z + encoder, 0.5 = errore piano 0.1-0.2 m x2. Evidenza: `agents/rapporti/depth_video_001_20261112_v11.md`.

diff --git a/projects/asmile/agents/lezioni/asmile-depth.md b/projects/asmile/agents/lezioni/asmile-depth.md
@@ -32,3 +32,7 @@ Scritte da palla.py dai VETO dei contro-agenti. Leggile prima di ogni lavoro.
 - 2026-11-12 SBAGLIATO (`agents/rapporti/depth_video_001_20261112_v9.md`): avevo lasciato V7=(v7,v8) e v9 girava con regole v6 (visto per caso su f3165-3172); prima toppa sintetica con spessore 0.25 m scartata dallo stadio A e a 2.0 m/3 m fuori immagine: non avevo controllato FOV e soglie di stadio A prima; falsi sul campione salgono da 7 a 16/28 (muri) come costo dichiarato
 - 2026-11-12 GIUSTO (`agents/rapporti/depth_video_001_20261112_v10.md`): Soglie tutte dalla tabella unica; test sintetico 1.5/1.7/1.9 m ostacolo e 2.2 m escluso; guardati a occhio i campioni di allarmi e azioni (non solo conteggi), cosi' ho scoperto che cordolo/marciapiede davano ~500 falsi e il frontale da stereo grezza falsi dal rumore, e li ho spenti dichiarandolo; regressione e verifica rifatte con numeri onesti
 - 2026-11-12 SBAGLIATO (`agents/rapporti/depth_video_001_20261112_v10.md`): Il calo atteso dei falsi sul campione del critico NON c'e' (16 -> 18) e 7 fotogrammi di veri persi (facciate classificate bordo): gate non rispettato; PCA per componente (muro+facciata fusi) buttata dopo 2 giri; cordolo/marciapiede non implementati; ~45% falsi sugli allarmi bordo; test sintetico 2.2 m rifatto 4 volte perche' la toppa usciva dall'immagine; sed BSD ancora usato
+- 2026-11-12 GIUSTO (`agents/rapporti/depth_video_001_20261112_v11.md`): Prima di tarare ho cercato la CAUSA dei muri: i blob sono fette a Z costante (ext 0.4 m), quindi la PCA del blob non puo' vederli; ho usato la componente connessa edificio/muro e due ipotesi di percorso (f2187 e' a 33 gradi dal dritto e 59 dall'arco). Falsi del campione v7 18 -> 6 (4 dei 6 sono oggetti veri per i casi fissi v8). Ho tenuto i casi fissi v8 (barile, bidone, vaso, paletti) e rifiutato 4 varianti che li perdevano o aumentavano i falsi (altro SAM declassato, esenzione muri paralleli, due ipotesi nell'allarme, mediana a 5 per il caso 2973), con numeri scritti. Test sintetico fatto e limiti dichiarati (barra sottile mai rilevata, a 4 m 1.7 m esce dall'immagine).
+- 2026-11-12 SBAGLIATO (`agents/rapporti/depth_video_001_20261112_v11.md`): Gate 'persi = 0' NON rispettato: da 7 a 47 fotogrammi (corsa max 1.6 s), tutti blob declassati a bordo; 43 sono facciate a 1.2-1.5 m ma 4 fotogrammi (id 213, 1719, 1739) sono dentro sagoma+margine e non li ho guardati uno a uno. Prima versione della regola laterale declassava anche gli 'altro' SAM e perdeva il barile: l'ho visto solo rigirando i casi fissi. 2748 (FRENA a 4.7 m) e 3021 (STERZA) non so se veri/falsi. Il bug 'unpack a 6 valori' e' emerso solo al render del video: lanciare il render prima delle misure. Tolleranze 0.10/0.35/0.5 m non validate col metro.
+- 2026-11-12 GIUSTO (`agents/rapporti/depth_video_001_20261112_v11.md`): niente altro
+- 2026-11-12 SBAGLIATO (`agents/rapporti/depth_video_001_20261112_v11.md`): niente di sbagliato oltre a quanto scritto sopra
